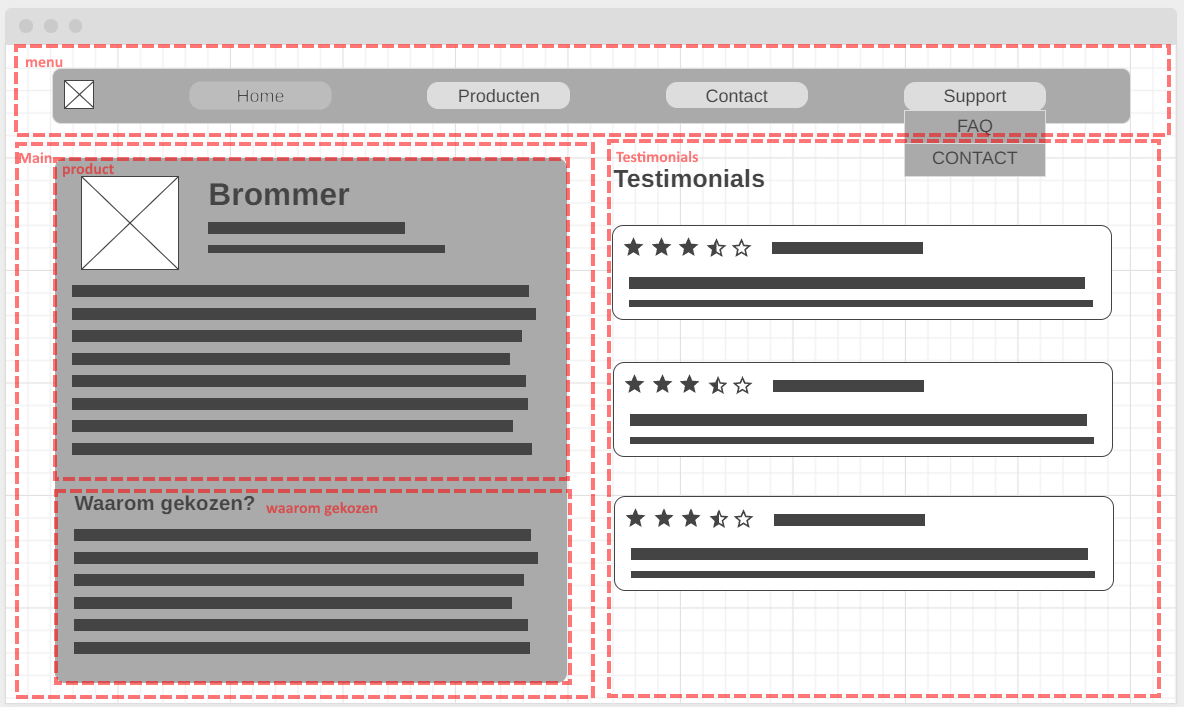
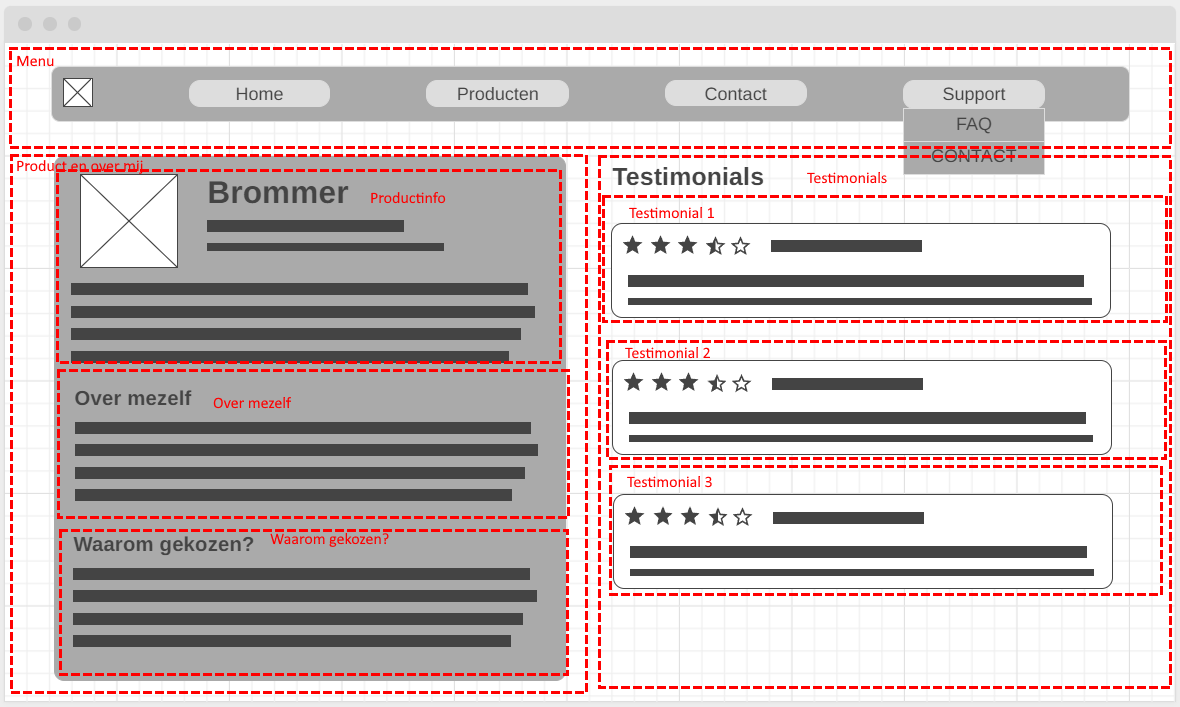
Update homepagina wireframe & remove dummy.txt

Changed region(s): [[0.0, 0.0622, 1.0, 0.9958], [0.9153, 0.3112, 0.9458, 0.3423]]

diff --git a/groeiproject/home.html b/groeiproject/home.html
@@ -5,9 +5,17 @@
     <meta name="viewport"
           content="width=device-width, user-scalable=no, initial-scale=1.0, maximum-scale=1.0, minimum-scale=1.0">
     <meta http-equiv="X-UA-Compatible" content="ie=edge">
-    <title</title>
+    <title>Home</title>
 </head>
 <body>
-
+    <nav>
+        <img src="media/logo.png" alt="Logo van onze website">
+        <a href="home.html">Home</a>
+        <a href="producten.html">Producten</a>
+        <a href="producten.html">Contact</a>
+        <section>
+            <h6>Support</h6>
+        </section>
+    </nav>
 </body>
 </html>
